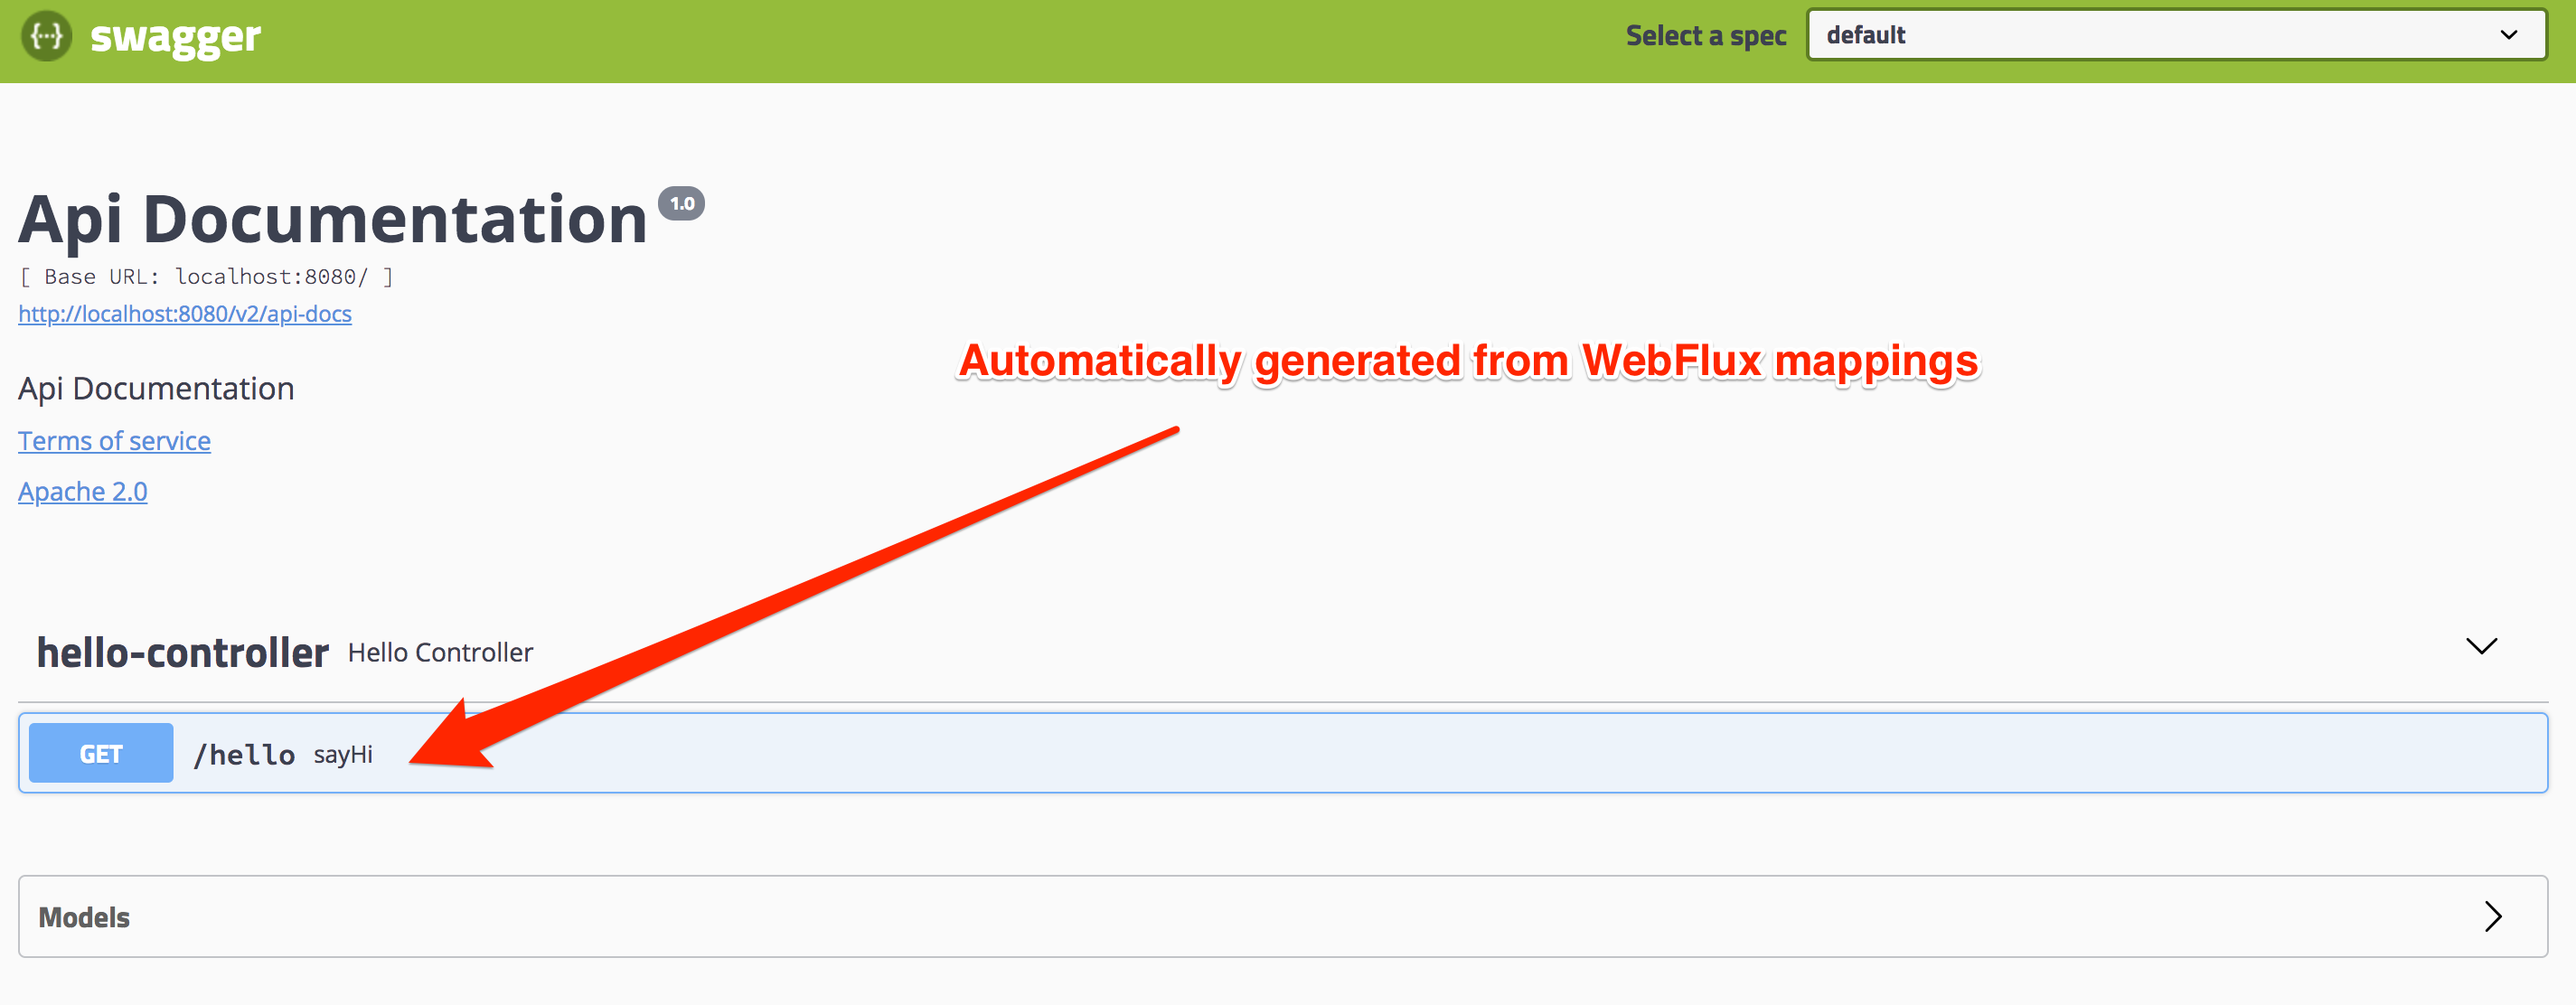
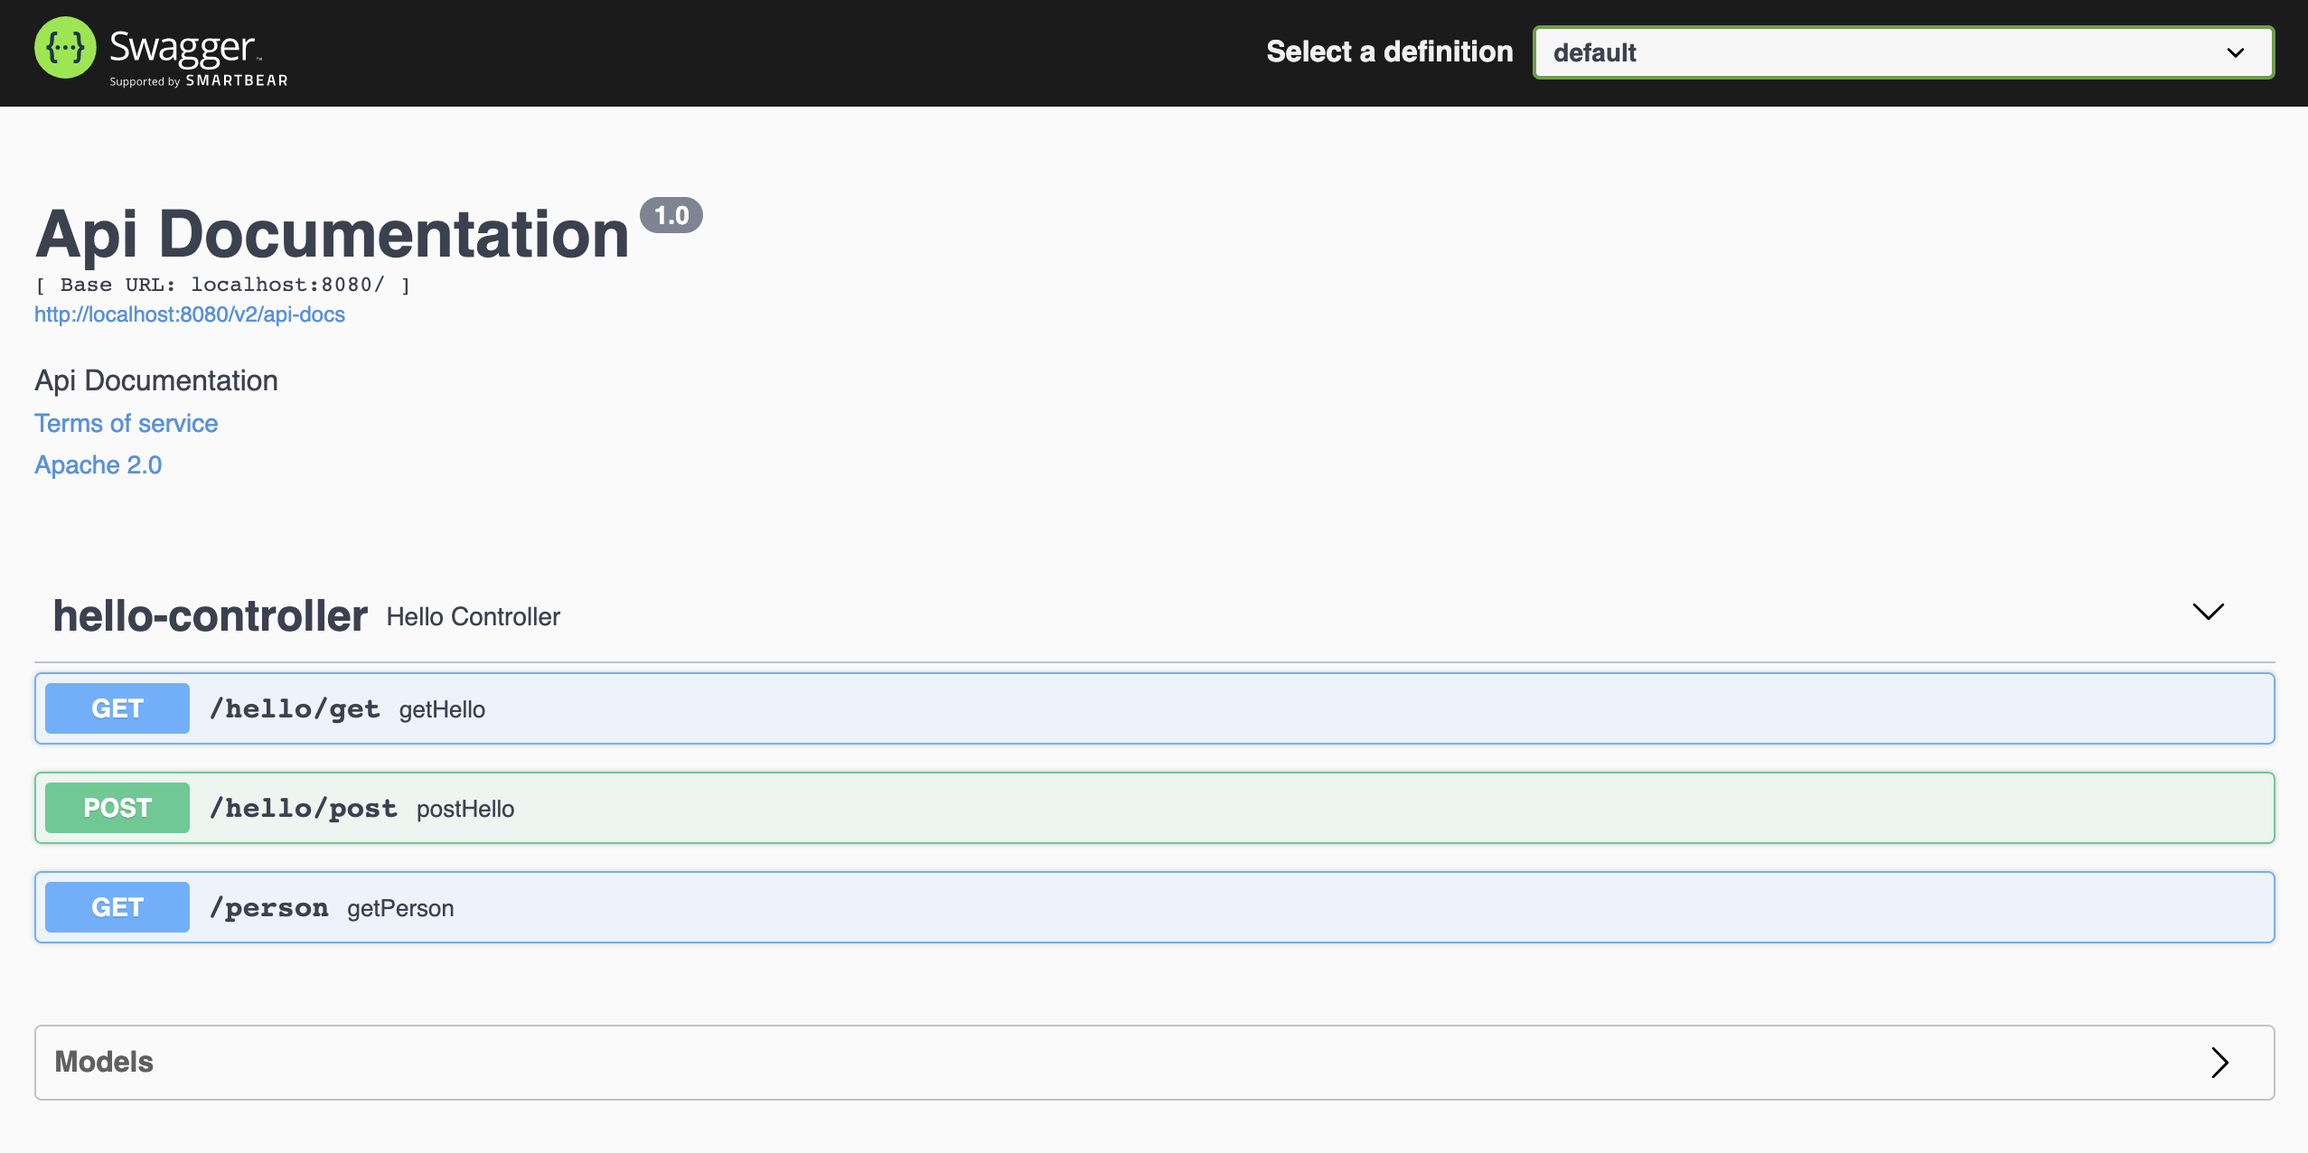
Update controller example and readme picture

diff --git a/src/main/java/com/example/swagger/HelloController.java b/src/main/java/com/example/swagger/HelloController.java
@@ -1,14 +1,31 @@
 package com.example.swagger;
 
 import org.springframework.web.bind.annotation.GetMapping;
+import org.springframework.web.bind.annotation.PostMapping;
 import org.springframework.web.bind.annotation.RestController;
 import reactor.core.publisher.Mono;
+
+import static java.util.Objects.requireNonNullElse;
 
 @RestController
 public class HelloController {
 
-    @GetMapping("/hello")
-    public Mono<String> sayHi() {
-        return Mono.just("Hi");
+    @GetMapping("/hello/get")
+    public Mono<String> getHello() {
+        return Mono.just("Getting back..");
+    }
+
+    @PostMapping("/hello/post")
+    public Mono<String> postHello() {
+        return Mono.just("Posting back..");
+    }
+
+    @GetMapping("/person")
+    public Mono<Person> getPerson(String name, Integer age) {
+        var personName = requireNonNullElse(name, "Anonymous");
+        var personAge = requireNonNullElse(age, 21);
+        var person = new Person(personName, personAge);
+
+        return Mono.just(person);
     }
 }

diff --git a/src/main/java/com/example/swagger/Person.java b/src/main/java/com/example/swagger/Person.java
@@ -1,0 +1,12 @@
+package com.example.swagger;
+
+@SuppressWarnings("WeakerAccess")
+class Person {
+    public String name;
+    public Integer age;
+
+    public Person(String name, Integer age) {
+        this.name = name;
+        this.age = age;
+    }
+}
